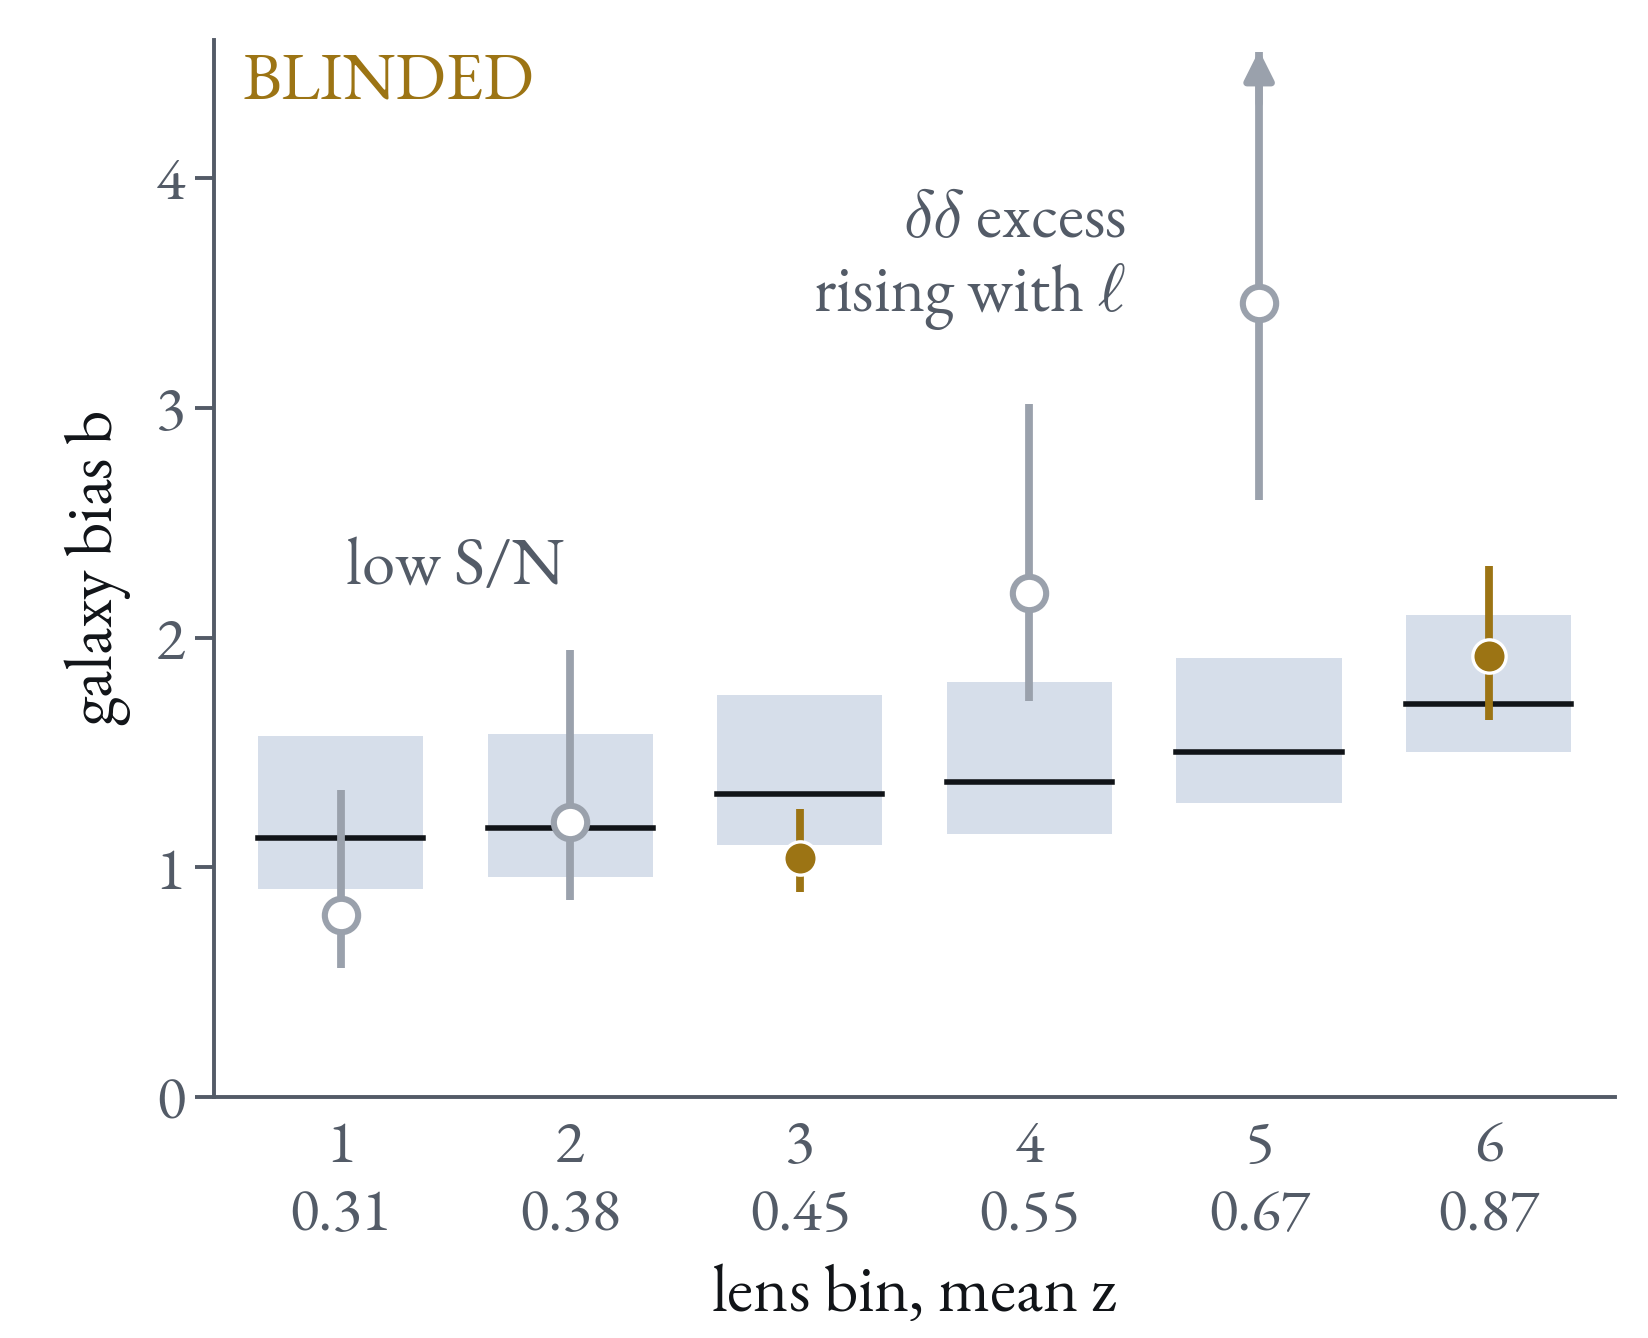
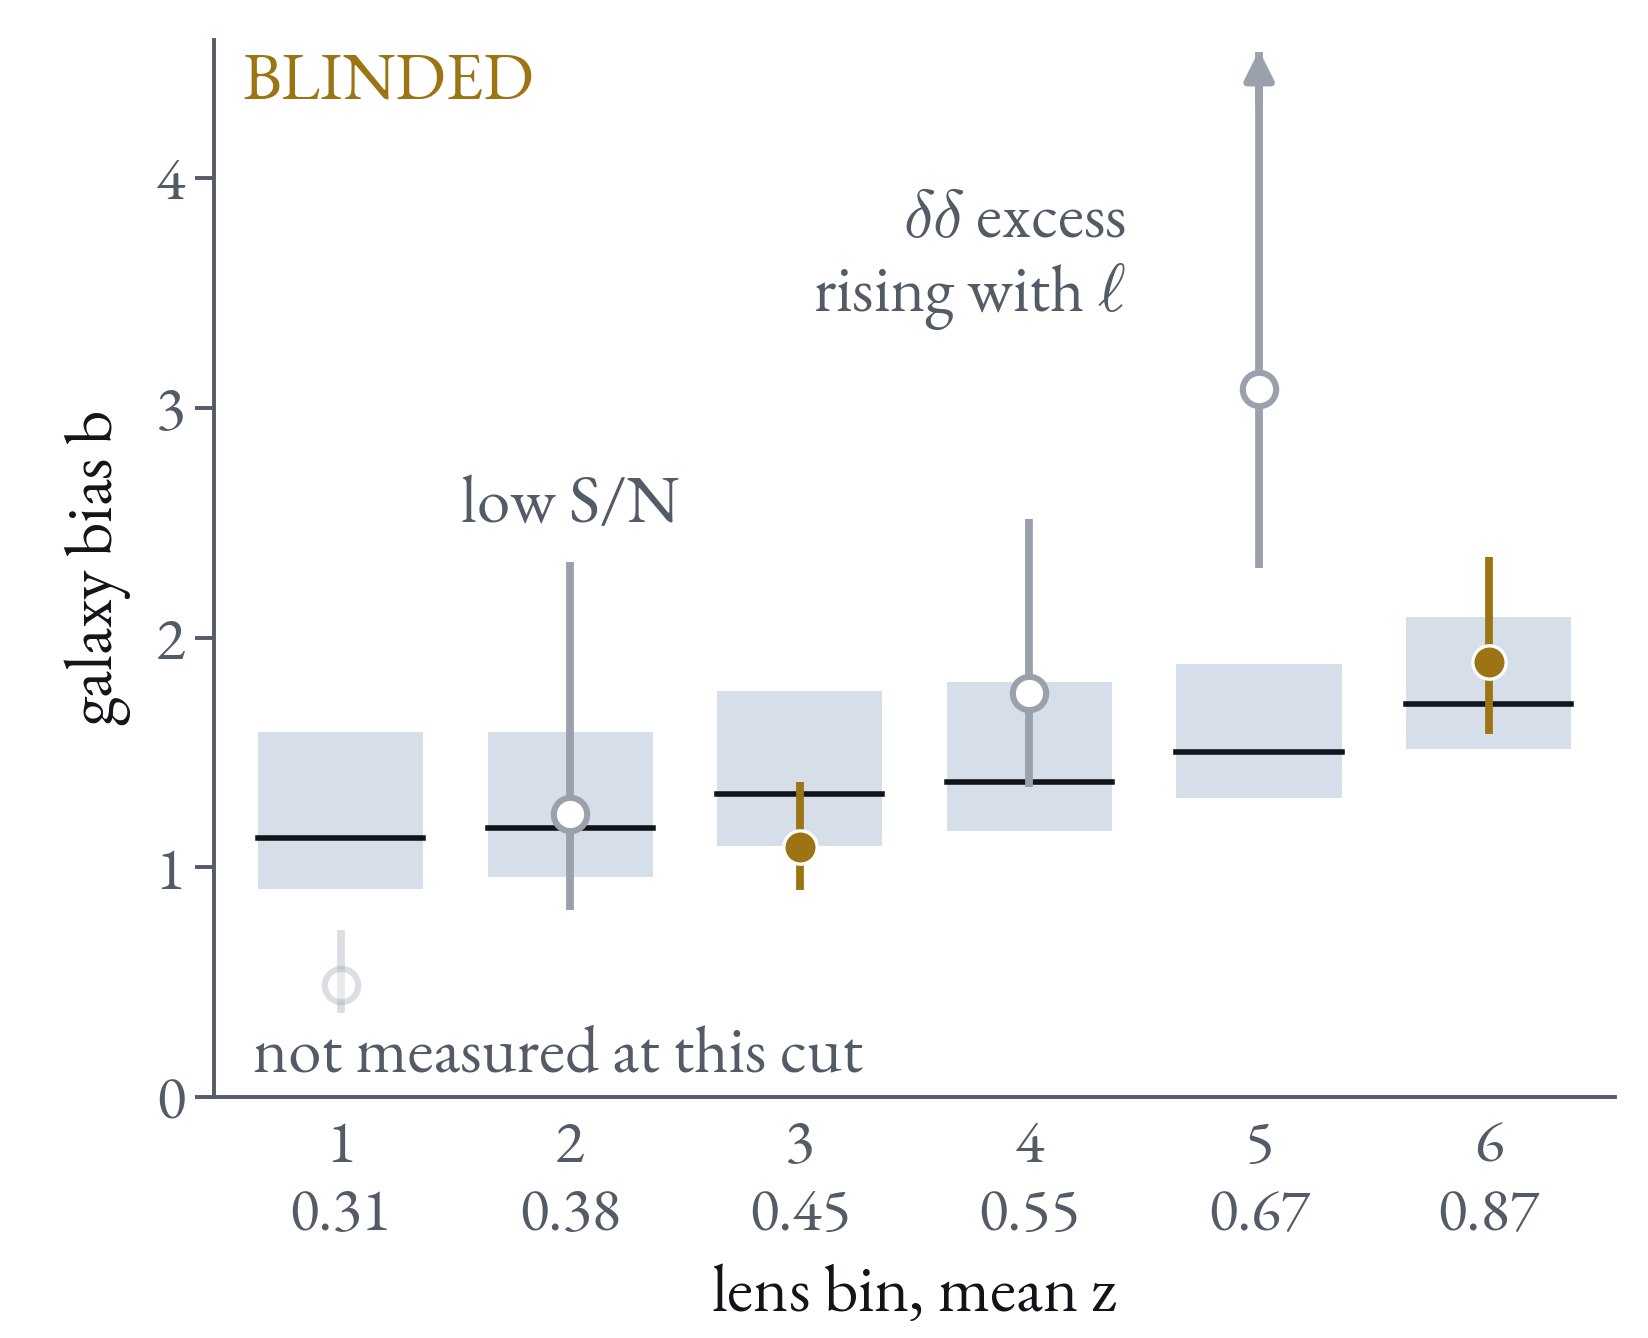
Napoli CMBX: κ-cross slides at the PT-validated scale cut
δδ at k_max 0.2, δκ and γδ at 0.15 h/Mpc (0.22σ_2D nonlinear-bias shift,
against 0.52σ for 0.2 everywhere). Lens ratio: shared μ = 0.88 −0.13 +0.19,
headline now 15–20 %. Bias: lens bin 1 drawn faint as not measured at this
cut (one δκ band); notes add the mock ratio-estimator bias in bins 4–5.

Claude-Session: https://claude.ai/code/session_01EG55r8GFGPwC9QUBtYHiTU

diff --git a/2610_Napoli_CMBX/slides/lens-ratio.html b/2610_Napoli_CMBX/slides/lens-ratio.html
@@ -1,22 +1,23 @@
 <section data-layout="figure-text">
-  <h2>CMB lensing checks shear × n(z) to ~15 %</h2>
+  <h2>CMB lensing checks shear × n(z) to 15–20 %</h2>
   <figure>
     <img src="images/napoli_lens_ratio_1.png" alt="Lens ratio mu per source bin recovered from ten GLASS mocks: seed values scattered around one, medians within a few percent of one, and a narrow band showing how little a blind-sized cosmology shift moves it">
-    <img class="fragment" data-fragment-index="1" src="images/napoli_lens_ratio_2.png" alt="The same with TR1 times SPT-3G data added: six correlated per-bin points between 0.77 and 0.88 and one shared mu of 0.87 with its one-sigma band reaching up to about 1.02">
-    <span class="source">Blind cmbx_dr1_a · linear scales, $\ell \lt k_{\rm max}\chi,$ $k_{\rm max} = 0.2\,h/{\rm Mpc}$</span>
+    <img class="fragment" data-fragment-index="1" src="images/napoli_lens_ratio_2.png" alt="The same with TR1 times SPT-3G data added: six correlated per-bin points between 0.79 and 1.07 and one shared mu of 0.88 with its one-sigma band reaching up to about 1.07">
+    <span class="source">Blind cmbx_dr1_a · γδ, κδ at $\ell \lt k_{\rm max}\chi,$ $k_{\rm max} = 0.15\,h/{\rm Mpc}$</span>
   </figure>
   <div class="text">
     <p>Lens ratio $\mu_i = C^{\gamma_i\delta}/C^{\kappa\delta}$ ÷ fiducial<br>$\propto (1+m_i) \times$ n(z) efficiency</p>
     <ul class="small">
       <li>bias and $\sigma_8$ cancel; a blind shift moves μ by ×0.98–1.04</li>
-      <li>mocks: shared $\mu = 1.04 \pm 0.05$</li>
-      <li class="fragment" data-fragment-index="1"><strong>TR1 × SPT-3G:</strong> shared <span class="accent">$\mu = 0.87^{+0.15}_{-0.11},$</span> ~1σ low; the six bins share κδ, so they are one dip, not six</li>
+      <li>mocks: shared $\mu = 1.03 \pm 0.06$</li>
+      <li class="fragment" data-fragment-index="1"><strong>TR1 × SPT-3G:</strong> shared <span class="accent">$\mu = 0.88^{+0.19}_{-0.13},$</span> 0.6σ low; the six bins share κδ, so they are correlated</li>
       <li class="fragment" data-fragment-index="1">a consistency check, not a calibration; ACT to come</li>
     </ul>
   </div>
   <aside class="notes">
-    <p>The lens ratio compares how strongly a Euclid source bin is lensed with how strongly the CMB is lensed, by the same foreground galaxies. For source bin $i$ and a lens bin $j$ in front of it, $C^{\gamma_i\delta_j}$ and $C^{\kappa\delta_j}$ share the galaxy bias of lens bin $j$ and the matter clustering at its redshift; their ratio is the ratio of the two lensing efficiencies at the lens redshift, times $(1+m_i)$ for the source bin's multiplicative shear bias. The fit gives each lens bin a free amplitude $\beta_j$ (absorbing bias and $\sigma_8$) and each source bin one amplitude $\mu_i$ relative to the fiducial theory, using lens bins at least 0.2 in mean redshift in front of the source bin and only scales $\ell \lt k_{\rm max}\chi(\bar z_j)$ with $k_{\rm max} = 0.2\,h/$Mpc (ℓ below 171 to 414 depending on the lens bin). So $\mu_i$ is a $(1+m_i)$ × n(z)-efficiency amplitude: it moves if the shear calibration is off, or if the source n(z) puts the wrong fraction of galaxies at high redshift. It cannot tell those apart. Because the cosmology cancels in the ratio, it is nearly blind-immune: over the public blinding envelope ($\pm 0.075$ in $S_8,$ $\pm 0.1$ in $\Omega_{\rm m}$) a cosmology shift moves the per-bin $\mu_i$ by ×0.98 to ×1.04 and the shared μ by ×0.98 to ×1.02, the pale bars in the figure.</p>
-    <p>First step: the estimator on ten GLASS 6×2pt mocks (lognormal, linear bias, $m = 0,$ ACT-like κ noise on the TR1 footprint), where the truth is 1. Dots are the ten seeds, points the median with the robust seed scatter divided by $\sqrt{10}.$ Per-bin medians are 0.96 to 1.06 and the shared μ is $1.04 \pm 0.05$ (mean of seeds), so the estimator is unbiased at this precision. The seed scatter is 1.0 to 1.3 times the propagated per-bin error (1.08 for the shared μ, coverage 62 %), so the propagated errors may be 10 to 30 % too small; the data errors below should be read with that in mind.</p>
-    <p>Second step: TR1 × SPT-3G data, through the blinded likelihood input and its full Gaussian covariance. Per bin, μ is 0.77 to 0.88 with errors of 11 to 28 %. The six points are strongly correlated, because every source bin is divided by the same $\kappa\delta_j$ spectra: a fluctuation in $\kappa\delta_j$ moves every $\mu_i$ that uses lens bin $j$ the same way. So six points about 1σ low are roughly one 1σ fluctuation, not six. The fit with one shared amplitude gives $\mu = 0.87$ ($-0.11,$ $+0.15$), 0.9σ below 1. That is a ~15 % consistency check of shear calibration times n(z) efficiency, an order of magnitude looser than the ~1 % image-simulation priors on $m$: CMB lensing does not calibrate $m$ here, it checks that nothing is grossly wrong. Caveats: SPT-3G only, the ACT product is pending; the mocks are ACT-like, so they test the estimator, not SPT's noise; intrinsic alignments of the sources enter $\gamma\delta$ and are not modelled; and these are exploratory estimators (results/scratch/napoli/crosses), not an lc output.</p>
+    <p>The lens ratio compares how strongly a Euclid source bin is lensed with how strongly the CMB is lensed, by the same foreground galaxies. For source bin $i$ and a lens bin $j$ in front of it, $C^{\gamma_i\delta_j}$ and $C^{\kappa\delta_j}$ share the galaxy bias of lens bin $j$ and the matter clustering at its redshift; their ratio is the ratio of the two lensing efficiencies at the lens redshift, times $(1+m_i)$ for the source bin's multiplicative shear bias. The fit gives each lens bin a free amplitude $\beta_j$ (absorbing bias and $\sigma_8$) and each source bin one amplitude $\mu_i$ relative to the fiducial theory, using lens bins at least 0.2 in mean redshift in front of the source bin. So $\mu_i$ is a $(1+m_i)$ × n(z)-efficiency amplitude: it moves if the shear calibration is off, or if the source n(z) puts the wrong fraction of galaxies at high redshift, and it cannot tell those apart. Because the cosmology cancels in the ratio, it is nearly blind-immune: over the public blinding envelope ($\pm 0.075$ in $S_8,$ $\pm 0.1$ in $\Omega_{\rm m}$) a cosmology shift moves the per-bin $\mu_i$ by ×0.98 to ×1.04 and the shared μ by ×0.98 to ×1.02, the pale bars in the figure.</p>
+    <p>Scale cut: both $\gamma\delta$ and $\kappa\delta$ keep $\ell \lt k_{\rm max}\chi(\bar z_j)$ with $k_{\rm max} = 0.15\,h/$Mpc, so ℓ below 128 to 310 depending on the lens bin. That is the cut the nonlinear-bias contamination test validates: a noiseless data vector with perturbative nonlinear bias, fitted with our linear-bias model, shifts $(S_8, \Omega_{\rm m})$ by $0.22\,\sigma_{\rm 2D}$ with $\delta\delta$ at 0.2 and the crosses at 0.15, against $0.52\,\sigma_{\rm 2D}$ with 0.2 everywhere. With 0.2 everywhere the shared μ was $0.87^{+0.15}_{-0.11}$; the stricter cut costs about a quarter of the precision and moves the centre by less than 0.1σ.</p>
+    <p>First step: the estimator on ten GLASS 6×2pt mocks (lognormal, linear bias, $m = 0,$ ACT-like κ noise on the TR1 footprint), where the truth is 1. Dots are the ten seeds, points the median with the robust seed scatter divided by $\sqrt{10}.$ Per-bin medians are 0.96 to 1.05 and the shared μ is $1.03 \pm 0.06$ (mean of seeds), so the estimator is unbiased at this precision. The seed scatter is 0.96 to 1.39 times the propagated per-bin error (1.13 for the shared μ, coverage 58 %), so the propagated errors may be 10 to 30 % too small; read the data errors with that in mind.</p>
+    <p>Second step: TR1 × SPT-3G data, through the blinded likelihood input and its full Gaussian covariance. Per bin, μ is 0.79 to 1.07 with errors of 15 to 40 %. The six points are strongly correlated, because every source bin is divided by the same $\kappa\delta_j$ spectra: a fluctuation in $\kappa\delta_j$ moves every $\mu_i$ that uses lens bin $j$ the same way, so five points below 1 are not five independent low points. The fit with one shared amplitude gives $\mu = 0.88$ ($-0.13,$ $+0.19$), 0.6σ below 1. That is a 15–20 % consistency check of shear calibration times n(z) efficiency, an order of magnitude looser than the ~1 % image-simulation priors on $m$: CMB lensing does not calibrate $m$ here, it checks that nothing is grossly wrong. Caveats: SPT-3G only, the ACT product is pending; the mocks are ACT-like, so they test the estimator, not SPT's noise; intrinsic alignments of the sources enter $\gamma\delta$ and are not modelled; and these are exploratory estimators (results/scratch/napoli/crosses), not an lc output.</p>
   </aside>
 </section>

diff --git a/2610_Napoli_CMBX/slides/bias-amplitude.html b/2610_Napoli_CMBX/slides/bias-amplitude.html
@@ -2,7 +2,7 @@
   <h2>Bias and the γκ amplitude stay blinded</h2>
   <figure>
     <figcaption>Galaxy bias, δδ against δκ: <span class="accent">BLINDED</span></figcaption>
-    <img src="images/napoli_bias_blinded.png" alt="Galaxy bias per lens bin from the ratio of the clustering auto-spectrum to the CMB-lensing cross, with the fiducial bias as lines and pale bands showing the blind-sized shift; bins 3 and 6 filled, bins 1 and 2 open as low signal to noise, bins 4 and 5 open and high">
+    <img src="images/napoli_bias_blinded.png" alt="Galaxy bias per lens bin from the ratio of the clustering auto-spectrum to the CMB-lensing cross, with the fiducial bias as lines and pale bands showing the blind-sized shift; bins 3 and 6 filled; bin 1 faint, not measured at this cut; bin 2 open, low signal to noise; bins 4 and 5 open and high">
     <span class="source">$\sigma_8$ cancels, $\Omega_{\rm m}$ does not · line: fiducial · pale: blind shift</span>
   </figure>
   <figure>
@@ -12,7 +12,8 @@
   </figure>
   <aside class="notes">
     <p>Two estimators from the same crosses that, unlike the lens ratio, carry the blind; both panels are TR1 × SPT-3G under blind cmbx_dr1_a, and the pale bars show how far a blind-sized cosmology shift (the public envelope, $\pm 0.075$ in $S_8,$ $\pm 0.1$ in $\Omega_{\rm m}$) moves each estimator at fixed truth. Where the pale bars are as wide as the error bars, the number tells us nothing we may read.</p>
-    <p>Left: galaxy bias per lens bin, $b = (C^{\delta\delta}/T^{\delta\delta}) / (C^{\delta\kappa}/T^{\delta\kappa})$ against unit-bias templates, on linear scales only ($\ell \lt k_{\rm max}\chi,$ $k_{\rm max} = 0.2\,h/$Mpc, declared before looking). On linear scales $\delta\delta \propto b^2\sigma_8^2$ and $\delta\kappa \propto b\,\sigma_8^2$, so $\sigma_8$ cancels, but the CMB-lensing kernel carries a factor $\Omega_{\rm m}$ that the clustering auto-spectrum does not: $b \propto \Omega_{\rm m}^{-(0.5\text{–}0.8)},$ and a blind-sized shift moves it by ×0.80 to ×1.39. So the bias is blinded too, and the pitch slide's “bias free of $\sigma_8$” is as far as the claim goes. In the data, lens bins 1 and 2 have $\delta\kappa$ signal-to-noise of only 2.3 and 2.5 inside the cut, so their ratios are heavy-tailed and essentially unconstrained (open). Bins 4 and 5 come out about 2σ above the fiducial (2.2 and 3.5 against 1.37 and 1.50), but that is driven by the $\delta\delta$ auto-spectrum, whose residual against the fiducial rises steadily with ℓ inside the cut (in one of them from +1.4σ to +4.8σ by ℓ ≈ 280). A scale-independent blind cannot make a trend; nonlinear bias or an estimator effect reaching below ℓ ≈ 300 is the likely cause, so those two are not results either (open). Bins 3 and 6 (filled) sit within 1.4σ of the fiducial. On ten GLASS mocks the estimator recovers the input bias to 0.97–1.13 in bins 3 to 6, with a hint of a 5–10 % ratio bias at S/N ≈ 5; the mocks are linear by construction, so they cannot validate the scale cut.</p>
+    <p>Left: galaxy bias per lens bin, $b = (C^{\delta\delta}/T^{\delta\delta}) / (C^{\delta\kappa}/T^{\delta\kappa})$ against unit-bias templates, on linear scales: $\delta\delta$ at $\ell \lt k_{\rm max}\chi$ with $k_{\rm max} = 0.2\,h/$Mpc and $\delta\kappa$ at $0.15\,h/$Mpc, the split that the nonlinear-bias contamination test validates ($0.22\,\sigma_{\rm 2D}$ shift in $(S_8, \Omega_{\rm m})$, against 0.52 with 0.2 everywhere). On linear scales $\delta\delta \propto b^2\sigma_8^2$ and $\delta\kappa \propto b\,\sigma_8^2$, so $\sigma_8$ cancels, but the CMB-lensing kernel carries a factor $\Omega_{\rm m}$ that the clustering auto-spectrum does not: $b \propto \Omega_{\rm m}^{-(0.5\text{–}0.8)},$ and a blind-sized shift moves it by ×0.80 to ×1.41. So the bias is blinded too, and the pitch slide's “bias free of $\sigma_8$” is as far as the claim goes.</p>
+    <p>Only bins 3 and 6 (filled) are shown as measurements: 1.09 and 1.89 against fiducial 1.32 and 1.71, within 1σ. Lens bin 1 is not measured at this cut: its $\delta\kappa$ keeps a single band at $\ell \approx 112,$ where the mock S/N is about 1, and its point at 0.49 carries a deceptively small, heavy-tailed error bar (on the mocks $b/b_{\rm true}$ in that bin ranges from −1.3 to 7.7 over ten seeds), so it is drawn faint. Bin 2 ($\delta\kappa$ S/N 1.9 on the data) is unconstrained. Bins 4 and 5 come out high, 1.76 and 3.08 against 1.37 and 1.50, and are not results either. Part of that is the estimator: a ratio with a noisy denominator is biased high, and on the mocks it returns $b$ 15–21 % high in bins 4 and 5 at their S/N of 3–4. The rest tracks the $\delta\delta$ auto-spectrum, whose residual against the fiducial rises steadily with ℓ inside the cut (in one of them from +1.4σ to +4.8σ by ℓ ≈ 280). A scale-independent blind cannot make a trend, so nonlinear bias or an estimator effect reaching below ℓ ≈ 300 is the likely cause. The mocks are linear by construction, so they cannot validate the scale cut; the contamination test does that.</p>
     <p>Right: the γκ amplitude per source bin over $100 \lt \ell \lt 3000$, relative to the fiducial. It scales as $S_8^{2.6},$ so a blind-sized shift moves it by ×0.75 to ×1.40: as an $m$ or n(z) handle on its own it is useless before unblinding, which is why the lens ratio divides the cosmology out. Source bin 1 is drawn open: on the mocks it comes out $1.25 \pm 0.12,$ 2σ high, for a reason we have not found (possibly the low-z shear excess or source clustering, not established). Bins 2 to 6 recover 0.96 to 1.02 on the mocks.</p>
   </aside>
 </section>

diff --git a/2610_Napoli_CMBX/make_crosses.py b/2610_Napoli_CMBX/make_crosses.py
@@ -8,13 +8,17 @@ results.json and draws.
 
 Three estimators, all relative to the fiducial theory vector:
 
+  Scale cut (results.json["scale_cut_used"]): the PT-validated split,
+  k_max = 0.2 h/Mpc for delta-delta, 0.15 h/Mpc for delta-kappa and
+  gamma-delta, ell_max = k_max chi(z_lens) - 1/2.
+
   lens ratio  mu_i = C^{gamma_i delta_j} / C^{kappa delta_j}, one amplitude per
               source bin with a free amplitude per lens bin, so galaxy bias and
               sigma8 cancel; mu_i ~ (1+m_i) x source-bin lensing efficiency
               relative to the CMB's.  Blind-immune (x0.98-1.04 over the
               public blinding envelope).
-  b           galaxy bias from delta-delta vs delta-kappa at ell < k_max chi(z),
-              k_max = 0.2 h/Mpc.  sigma8 cancels, Omega_m does not -> blinded.
+  b           galaxy bias from delta-delta vs delta-kappa on linear scales.
+              sigma8 cancels, Omega_m does not -> blinded.
   A^gk        gamma-kappa amplitude per source bin, 100 < ell < 3000;
               ~ S8^2.6 -> blinded.
 
@@ -41,6 +45,7 @@ from matplotlib.ticker import FixedLocator
 
 HERE = os.path.dirname(os.path.abspath(__file__))
 IMG = os.path.join(HERE, "..", "images")
+BIAS_CUT = "0.2/0.15"         # delta-delta / delta-kappa k_max, h/Mpc
 SRC = "/leonardo_work/EUHPC_E07_074/cdaley00/cmbx/results/scratch/napoli/crosses/results.json"
 
 # euclid theme (house/themes/euclid.css)
@@ -101,9 +106,10 @@ def load():
         "mock_mu_all": np.array([s["mu_all_point"] for s in m["lens"]]),
         "mu": np.array([[x["median"], x["lo"], x["hi"]] for x in d["lens"]["mu"]]),
         "mu_all": d["lens"]["mu_all"],
-        "b": np.array([[x["b"]["median"], x["b"]["lo"], x["b"]["hi"]] for x in d["bias"]["0.2"]]),
-        "snr_dk": np.array([x["snr_dk"] for x in d["bias"]["0.2"]]),
-        "lmax": np.array([x["lmax"] for x in d["bias"]["0.2"]]),
+        "b": np.array([[x["b"]["median"], x["b"]["lo"], x["b"]["hi"]] for x in d["bias"][BIAS_CUT]]),
+        "snr_dk": np.array([x["snr_dk"] for x in d["bias"][BIAS_CUT]]),
+        "lmax": np.array([x["lmax_dk"] for x in d["bias"][BIAS_CUT]]),
+        "mock_b_ratio": np.array([[x["b_point"] for x in s] for s in m["bias"][BIAS_CUT]]) / np.array(m["b_true"]),
         "A": np.array(d["gk"]["A"]), "A_err": np.array(d["gk"]["err"]),
         "mock_A": np.array([s["A"] for s in m["gk"]]),
         "blind_mu": np.array([p["mu"] for p in bs]),
@@ -131,10 +137,12 @@ def summarize(a):
     print("data mu_i: " + "  ".join(f"{v[0]:.2f}-{v[1]:.2f}+{v[2]:.2f}" for v in a["mu"]))
     print(f"blind range mu_i: {a['blind_mu'].min():.3f}-{a['blind_mu'].max():.3f}; "
           f"shared: {a['blind_mu_all'].min():.3f}-{a['blind_mu_all'].max():.3f}")
-    print("data b (k_max 0.2): " + "  ".join(f"{v[0]:.2f}-{v[1]:.2f}+{v[2]:.2f}" for v in a["b"]))
+    print(f"data b ({BIAS_CUT}): " + "  ".join(f"{v[0]:.2f}-{v[1]:.2f}+{v[2]:.2f}" for v in a["b"]))
     print("  (b - b_fid)/sigma_lo: " + " ".join(f"{(v[0] - f) / v[1]:+.1f}" for v, f in zip(a["b"], a["b_fid"])))
     print("  delta-kappa S/N (SPT): " + " ".join(f"{x:.1f}" for x in a["snr_dk"]))
     print("  ell_max: " + " ".join(f"{x:.0f}" for x in a["lmax"]))
+    print("  mock median b/b_true: " + " ".join(f"{x:.2f}" for x in np.median(a["mock_b_ratio"], 0)))
+    print(f"  mock bin-1 b/b_true range: {a['mock_b_ratio'][:, 0].min():.2f} to {a['mock_b_ratio'][:, 0].max():.2f}")
     print(f"blind range b/b_fid: {a['blind_b'].min():.2f}-{a['blind_b'].max():.2f}")
     print("data A_gk: " + "  ".join(f"{x:.2f}+-{e:.2f}" for x, e in zip(a["A"], a["A_err"])))
     print("mock A_gk mean: " + " ".join(f"{x:.2f}" for x in a["mock_A"].mean(0)))
@@ -221,17 +229,22 @@ def bias(a):
         ax.fill_between([xi - 0.36, xi + 0.36], f * l, f * h, color=BAND, lw=0, zorder=0)
         ax.plot([xi - 0.36, xi + 0.36], [f, f], color=INK, lw=2.0, zorder=1)
     v = a["b"]
+    # 3, 6: measurements; 2: low S/N; 4, 5: delta-delta excess; 1: one delta-kappa band, not measured
     solid = np.array([False, False, True, False, False, True])
     for i in range(6):
         col = DATA if solid[i] else GREYED
+        alpha = 0.35 if i == 0 else 1.0
         hi = min(v[i, 0] + v[i, 2], 4.55) - v[i, 0]
         ax.errorbar(x[i], v[i, 0], yerr=[[v[i, 1]], [hi]], fmt="o", ms=12, color=col,
                     mfc=col if solid[i] else "white", mew=2.2 if not solid[i] else 1.2,
-                    mec=col if not solid[i] else "white", elinewidth=2.8, capsize=0, zorder=3)
+                    mec=col if not solid[i] else "white", elinewidth=2.8, capsize=0, zorder=3,
+                    alpha=alpha)
         if v[i, 0] + v[i, 2] > 4.55:
             ax.annotate("", xy=(x[i], 4.58), xytext=(x[i], 4.3),
                         arrowprops=dict(arrowstyle="-|>", color=col, lw=2.6, mutation_scale=22))
-    ax.text(1.5, 2.15, "low S/N", fontsize=LABEL, color=MUTED, ha="center", va="bottom")
+    ax.text(0.62, 0.03, "not measured at this cut", fontsize=LABEL, color=MUTED, ha="left",
+            va="bottom")
+    ax.text(2.0, 2.42, "low S/N", fontsize=LABEL, color=MUTED, ha="center", va="bottom")
     ax.text(4.42, 3.95, "$\\delta\\delta$ excess\nrising with $\\ell$", fontsize=LABEL, color=MUTED,
             ha="right", va="top", linespacing=1.1)
     blinded_tag(ax, 0.02, 0.99)
